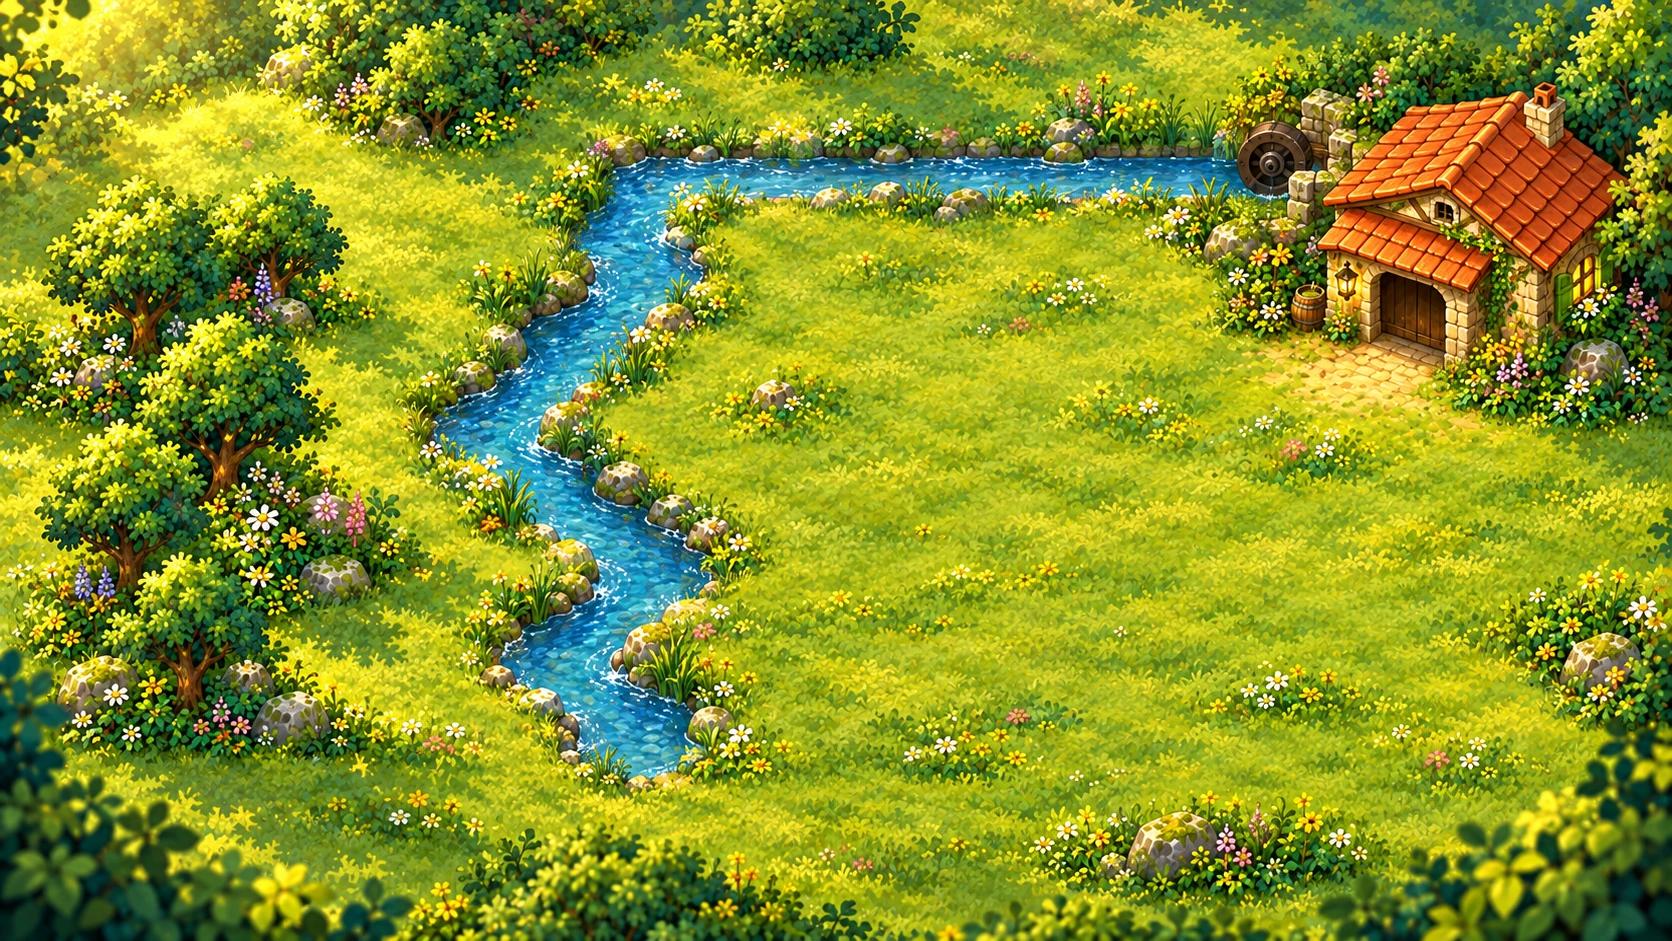
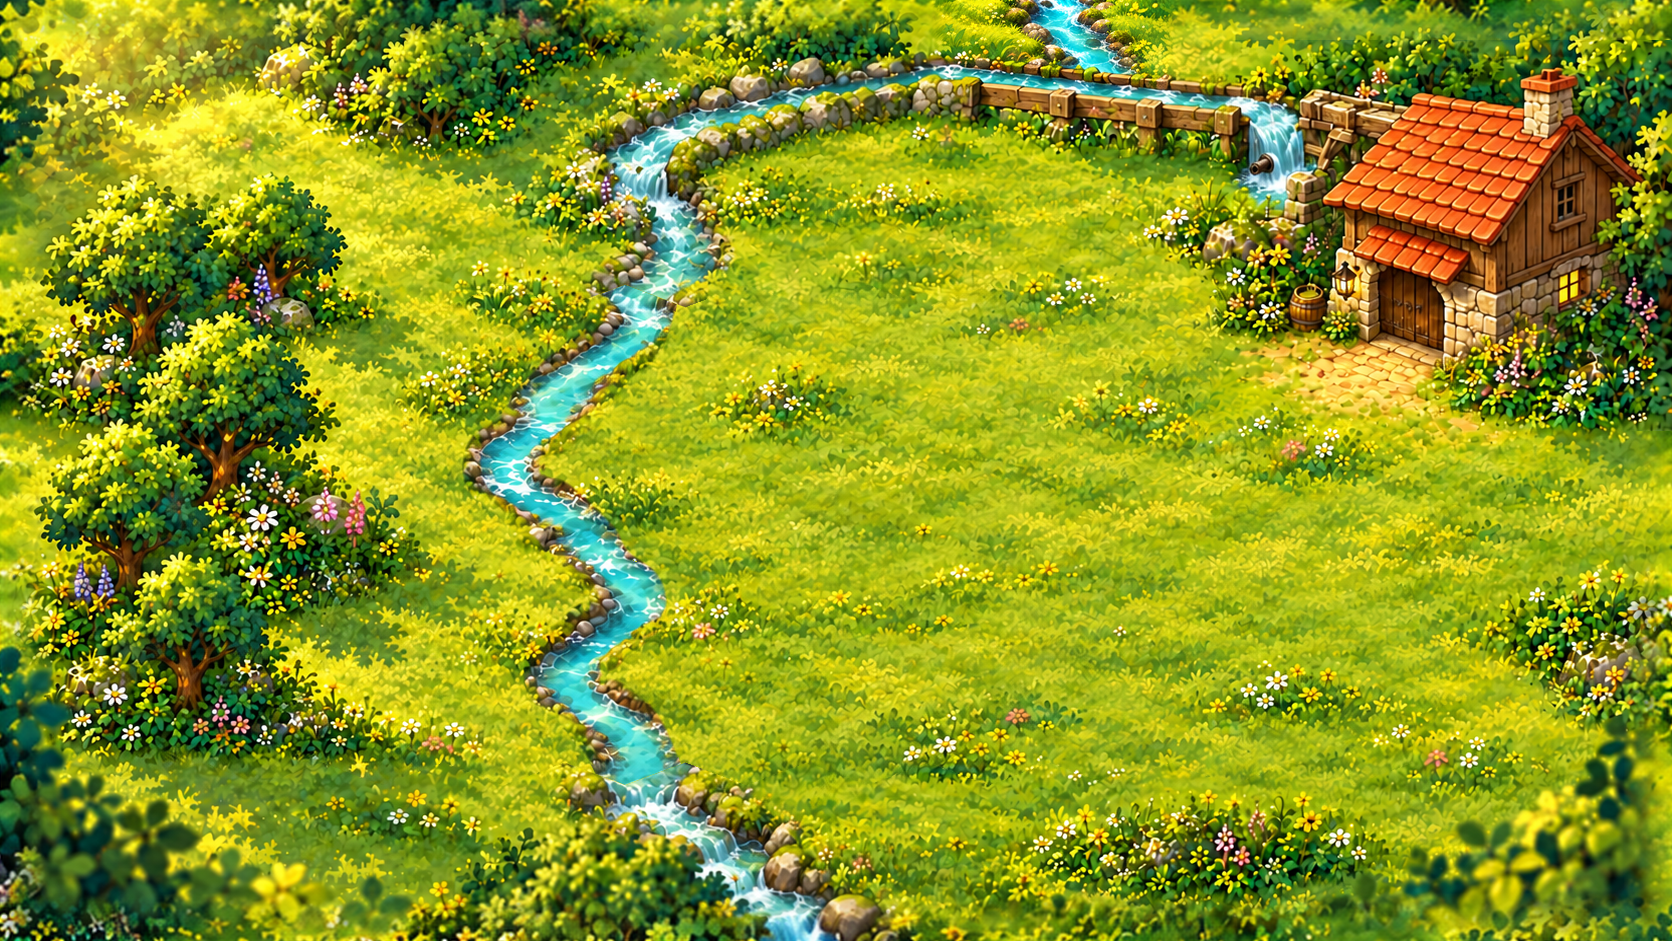
feat(#46): integrate registered mill art and native wheel into the common chapter

diff --git a/src/painted-scene.ts b/src/painted-scene.ts
@@ -4,6 +4,7 @@ type Scene=ReturnType<typeof fitScene>;
 export type PaintedSceneAssets={
  background:string;foreground?:string|null;gateClosed?:string;gateOpen?:string;
  joinBand?:number;
+ wheel?:{file:string;origin:number[];pivot:number[];size:number[]};
  wide?:{file:string;canvas:{width:number;height:number};originalRect:{x:number;y:number;width:number;height:number}}|null;
 };
 const ns='http://www.w3.org/2000/svg';
@@ -17,6 +18,14 @@ export function paintedBackdrop(svg:SVGSVGElement,scene:Scene,assets:PaintedScen
  const group=world(svg,scene,'data-painted-world'),{canvas,originalRect}=assets.wide;
  node('image',{'data-surroundings':'',href:url(assets.wide.file),x:-originalRect.x,y:-originalRect.y,width:canvas.width,height:canvas.height},group);
  node('image',{'data-painted-background':'',href:url(assets.background),width:originalRect.width,height:originalRect.height,mask:sceneJoinMask(group,originalRect.width,originalRect.height,assets.joinBand??48)},group);
+}
+/** Wheel shares the native scene transform, never the hex ground compression. */
+export function paintedWheel(svg:SVGSVGElement,scene:Scene,assets:PaintedSceneAssets,running:boolean){
+ const wheel=assets.wheel;if(!wheel)return;
+ const group=world(svg,scene,'data-painted-wheel-world');
+ const axle=node('g',{transform:`translate(${wheel.origin[0]+wheel.pivot[0]} ${wheel.origin[1]+wheel.pivot[1]})`},group);
+ const rotor=node('g',{class:running?'mill-wheel turning':'mill-wheel','data-wheel':running?'running':'still'},axle);
+ node('image',{href:url(wheel.file),x:-wheel.pivot[0],y:-wheel.pivot[1],width:wheel.size[0],height:wheel.size[1]},rotor);
 }
 export function paintedForeground(svg:SVGSVGElement,scene:Scene,assets:PaintedSceneAssets,open:boolean){
  const worldGroup=world(svg,scene,'data-painted-foreground'),group=node('g',{mask:sceneJoinMask(worldGroup,1672,941,assets.joinBand??48)},worldGroup);

diff --git a/src/main.ts b/src/main.ts
@@ -5,6 +5,7 @@ import {renderMapTrails} from './map-trails.ts';
 import mapPaint from '../public/assets/chapter-map-v2/manifest.json' with {type:'json'};
 import {drawBridge} from './bridge-art.ts';
 import {drawConnectedRoad} from './connected-road.ts';
+import {paintedWheel,type PaintedSceneAssets} from './painted-scene.ts';
 // Enable only after the finished stream material/bank pilot is reviewed.
 const CONNECTED_ROAD_PILOT=false;
 import {prepareResidentViews,renderResidents,sceneResidents,legacyResidentPlacements,type ResidentPlacement} from './resident-scene.ts';
@@ -265,7 +266,9 @@ function renderBoard() {
   svg.setAttribute('viewBox',`0 0 ${rect.width} ${rect.height}`); svg.replaceChildren();
   if(sceneTransform&&!v6)backdrop(svg,rect.width,rect.height,sceneTransform);
   groundOffset={x:0,y:0};
-  if(v6){radius=v6.radius;origin=v6.origin;groundOffset=v6.translation;sceneBackdrop(svg,v6,level.id!=='gate'||completed.includes('gate')||phase==='won');}
+  if(v6){radius=v6.radius;origin=v6.origin;groundOffset=v6.translation;sceneBackdrop(svg,v6,level.id!=='gate'||completed.includes('gate')||phase==='won');
+   if(PRODUCTION_LAYOUT_VERSION>=2&&level.id==='mill')paintedWheel(svg,v6,paintedManifest.scenes.mill as unknown as PaintedSceneAssets,phase==='won'||completed.includes('mill'));
+  }
   projection=sceneTransform?sceneProjection({x:sceneTransform.offset.x+sceneTransform.startArt.x*sceneTransform.fit,y:sceneTransform.offset.y+sceneTransform.startArt.y*sceneTransform.fit},{x:sceneTransform.offset.x+sceneTransform.goalArt.x*sceneTransform.fit,y:sceneTransform.offset.y+sceneTransform.goalArt.y*sceneTransform.fit}):{scale:GROUND_SCALE,pivotY:0};
   if(v6)projection=v6.projection;
   const vertices=Array.from({length:6},(_,i)=>groundPoint(radius*Math.cos((i*60-90)*Math.PI/180),radius*Math.sin((i*60-90)*Math.PI/180)));

diff --git a/scripts/art-v9-install-mill.py b/scripts/art-v9-install-mill.py
@@ -1,0 +1,11 @@
+"""Install registered mill resources; actual review remains explicit."""
+from pathlib import Path
+import json,shutil,hashlib
+r=Path(__file__).resolve().parents[1];s=r/'art/chapter-1-v9/layers/water/mill-pilot';out=r/'public/assets/chapter-1/v9/mill';out.mkdir(exist_ok=True)
+contract=json.loads((s/'manifest.json').read_text());p=out.parent/'manifest.json';m=json.loads(p.read_text());e=m['scenes']['mill']
+for f in ['background.webp','wide.webp','wheel-110.png']:shutil.copy2(s/f,out/f)
+e.update(background='mill/background.webp',foreground=None,wide={'file':'mill/wide.webp','canvas':dict(zip(['width','height'],contract['wide']['canvas'])),'originalRect':dict(zip(['x','y','width','height'],contract['wide']['originalRect']))},joinBand=48,sourceManifest='art/chapter-1-v9/layers/water/mill-pilot/manifest.json',status='adaptive-mill-source-checked-game-review-pending',wheel={**contract['wheel'],'file':'mill/wheel-110.png'})
+e['semanticAnchors']['secondResidentFeet']={'x':1530,'y':450,'status':'same-as-independently-checked-legacy-F1-anchor; layout2-actual-check-pending'}
+e['checks']={**json.loads((s/'checks.json').read_text()),'fullPolygonVisualAudit':'pending','gameQa':'pending','artAcceptance':'pending'}
+e['deliveryFiles']={f:{'bytes':(out/f).stat().st_size,'sha256':hashlib.sha256((out/f).read_bytes()).hexdigest()} for f in ['background.webp','wide.webp','wheel-110.png']}
+p.write_text(json.dumps(m,ensure_ascii=False,indent=2)+'\n')
